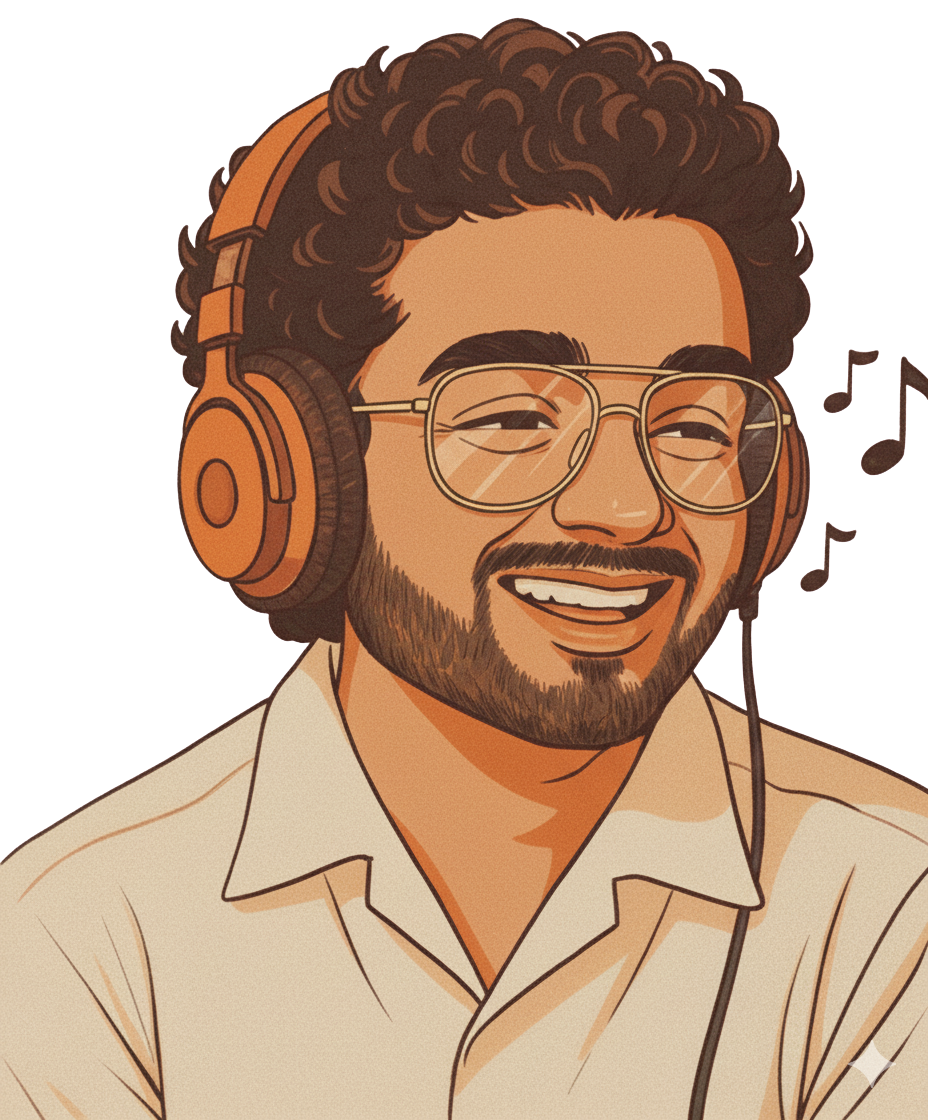
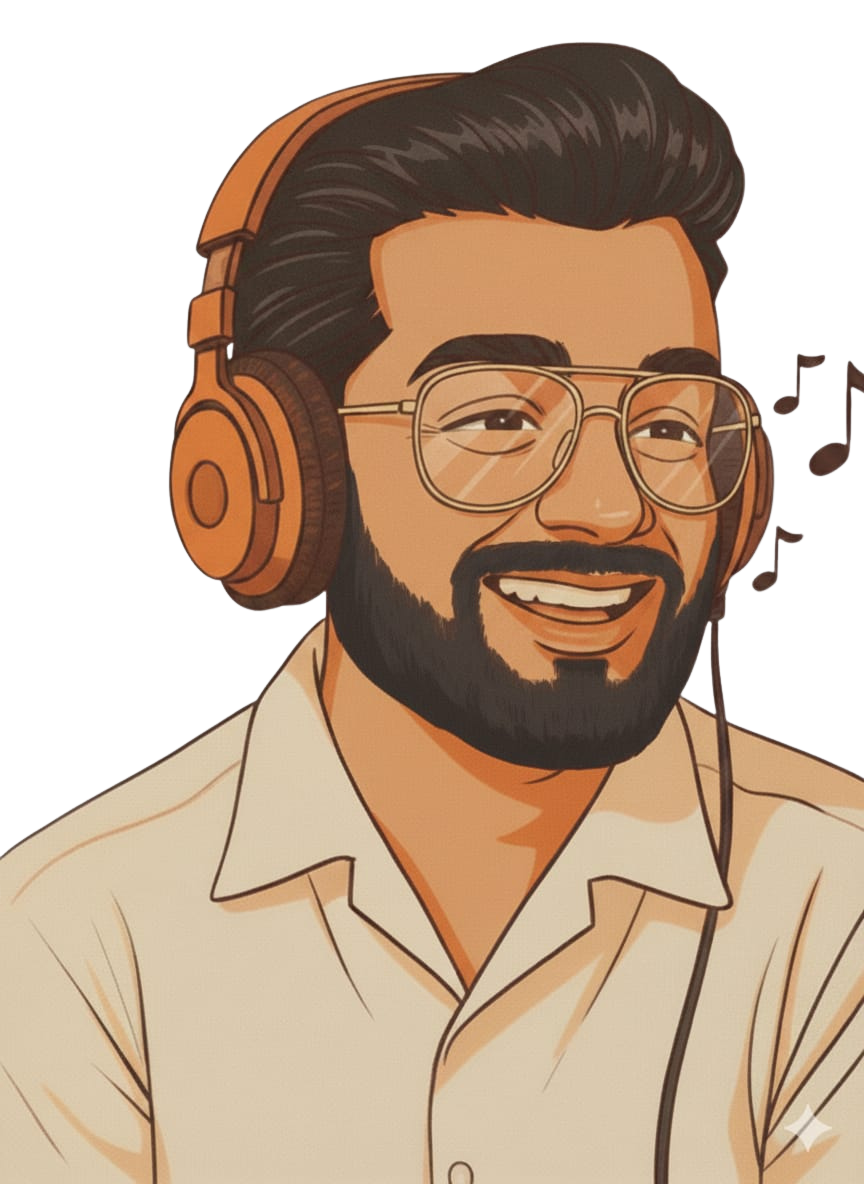
feat: music box issues fixed

diff --git a/components/music-box/MusicBox.tsx b/components/music-box/MusicBox.tsx
@@ -1,137 +1,25 @@
-// "use client";
-
-// import { useState, useRef } from "react";
-// import { motion } from "framer-motion";
-// import { Volume2, VolumeX, Radio, Music } from "lucide-react";
-
-// const radioStations = [
-//   "/audio/radio1.mp3",
-//   "/audio/radio2.mp3",
-//   "/audio/radio3.mp3",
-// ];
-
-// const personalTracks = [
-//   "/audio/mymusic1.mp3",
-//   "/audio/mymusic2.mp3",
-// ];
-
-// const clickSoundPath = "/assets/audio/click.mp3";
-
-// const MusicBox = () => {
-//   const [isMuted, setIsMuted] = useState(false);
-//   const [isPersonalMode, setIsPersonalMode] = useState(false);
-//   const [currentTrack, setCurrentTrack] = useState(0);
-
-//   const audioRef = useRef<HTMLAudioElement | null>(null);
-//   const clickRef = useRef<HTMLAudioElement | null>(null);
-
-//   const playClick = () => {
-//     if (clickRef.current) {
-//       clickRef.current.currentTime = 0;
-//       clickRef.current.play();
-//     }
-//   };
-
-//   const handleNextChannel = () => {
-//     playClick();
-//     const tracks = isPersonalMode ? personalTracks : radioStations;
-//     setCurrentTrack((prev) => (prev + 1) % tracks.length);
-//   };
-
-//   const handleMuteToggle = () => {
-//     playClick();
-//     setIsMuted((prev) => !prev);
-//   };
-
-//   const handleModeSwitch = () => {
-//     playClick();
-//     setIsPersonalMode((prev) => !prev);
-//     setCurrentTrack(0);
-//   };
-
-//   const tracks = isPersonalMode ? personalTracks : radioStations;
-
-//   return (
-//     <motion.div
-//       className="w-[220px] h-[160px] bg-[url('/assets/wood-texture.jpg')] bg-cover bg-center rounded-lg shadow-xl border border-border flex flex-col justify-between p-4 relative"
-//       initial={{ opacity: 0, y: -10 }}
-//       animate={{ opacity: 1, y: 0 }}
-//       transition={{ duration: 0.8 }}
-//     >
-//       {/* Decorative header */}
-//       <div className="flex justify-between items-center">
-//         <span className="text-xs uppercase text-foreground/60 tracking-widest">
-//           {isPersonalMode ? "My Tunes" : "Vintage Radio"}
-//         </span>
-//         <Radio className="w-4 h-4 text-primary/70" />
-//       </div>
-
-//       {/* Dial / Screen */}
-//       <div className="flex flex-col items-center justify-center mt-4 mb-2">
-//         <div className="w-[140px] h-[40px] bg-zinc-800/80 text-primary text-center flex items-center justify-center rounded-md shadow-inner border border-border font-mono text-sm">
-//           {isPersonalMode ? `Track ${currentTrack + 1}` : `Channel ${currentTrack + 1}`}
-//         </div>
-//       </div>
-
-//       {/* Controls */}
-//       <div className="flex justify-around items-center mt-auto">
-//         <button
-//           onClick={handleNextChannel}
-//           className="w-10 h-10 rounded-full bg-zinc-700 hover:bg-zinc-600 text-white shadow-md flex items-center cursor-pointer justify-center active:scale-95 transition"
-//         >
-//           ⏭
-//         </button>
-//         <button
-//           onClick={handleMuteToggle}
-//           className="w-10 h-10 rounded-full bg-zinc-700 hover:bg-zinc-600 text-white shadow-md flex items-center cursor-pointer justify-center active:scale-95 transition"
-//         >
-//           {isMuted ? <VolumeX size={18} /> : <Volume2 size={18} />}
-//         </button>
-//         <button
-//           onClick={handleModeSwitch}
-//           className="w-10 h-10 rounded-full bg-zinc-700 hover:bg-zinc-600 text-white shadow-md flex items-center cursor-pointer justify-center active:scale-95 transition"
-//         >
-//           {isPersonalMode ? <Radio size={18} /> : <Music size={18} />}
-//         </button>
-//       </div>
-
-//       {/* Hidden audio elements */}
-//       <audio
-//         ref={audioRef}
-//         src={tracks[currentTrack]}
-//         autoPlay
-//         loop
-//         muted={isMuted}
-//         onEnded={handleNextChannel}
-//       />
-//         <audio ref={clickRef} src={clickSoundPath} preload="auto" />
-//     </motion.div>
-//   );
-// };
-
-// export default MusicBox;
-
 "use client";
 
 import { useState, useRef } from "react";
 import { motion } from "framer-motion";
 import {
-  Volume2,
   SkipBack,
   SkipForward,
   Radio,
   Play,
   Pause,
 } from "lucide-react";
+import Image from "next/image";
 import HiddenYouTubeAudioHandler from "./HiddenYouTubeAudioHandler";
+import diskImg from "@/public/assets/images/disk.png";
 
 // 🎵 YouTube Tracks
 const youtubeRadioLinks = [
-  { url: "https://www.youtube.com/watch?v=kHGGf1qk6lI", start: 10, end: 60 },
-  { url: "https://www.youtube.com/watch?v=bF6bFy5oUno", start: 0, end: 90 },
-  { url: "https://www.youtube.com/watch?v=FRx6rQ606oE", start: 15, end: 75 },
-  { url: "https://www.youtube.com/watch?v=ibz-xC1YCgk", start: 20, end: 100 },
-  { url: "https://www.youtube.com/watch?v=nKhh3aqNRWA", start: 5, end: 120 },
+  { url: "https://www.youtube.com/watch?v=kHGGf1qk6lI", start: 10, end: 100 },
+  { url: "https://www.youtube.com/watch?v=bF6bFy5oUno", start: 10, end: 100 },
+  { url: "https://www.youtube.com/watch?v=FRx6rQ606oE", start: 10, end: 100 },
+  { url: "https://www.youtube.com/watch?v=ibz-xC1YCgk", start: 10, end: 100 },
+  { url: "https://www.youtube.com/watch?v=nKhh3aqNRWA", start: 10, end: 100 },
 ];
 
 // 🔊 Sound Effects
@@ -139,8 +27,8 @@ const clickSoundPath = "/assets/audio/click.mp3";
 const scrollSoundPath = "/assets/audio/slider.mp3";
 
 const MusicBox = () => {
-  const [isMuted, setIsMuted] = useState(true); // start muted (browser-safe autoplay)
-  const [isPlaying, setIsPlaying] = useState(true);
+  const [isMuted, setIsMuted] = useState(true);
+  const [isPlaying, setIsPlaying] = useState(false);
   const [currentTrack, setCurrentTrack] = useState(0);
   const [volume, setVolume] = useState(0.5);
 
@@ -155,7 +43,7 @@ const MusicBox = () => {
     }
   };
 
-  // 🔄 Scroll (volume change) sound
+  // 🎚 Scroll sound
   const playScroll = () => {
     if (scrollRef.current) {
       scrollRef.current.currentTime = 0;
@@ -163,14 +51,14 @@ const MusicBox = () => {
     }
   };
 
-  // ⏭ Next Track
+  // ⏭ Next track
   const handleNextChannel = () => {
     playClick();
-    setIsMuted(false); // unmute after first user interaction
+    setIsMuted(false);
     setCurrentTrack((prev) => (prev + 1) % youtubeRadioLinks.length);
   };
 
-  // ⏮ Previous Track
+  // ⏮ Previous track
   const handlePrevChannel = () => {
     playClick();
     setIsMuted(false);
@@ -179,14 +67,14 @@ const MusicBox = () => {
     );
   };
 
-  // ▶ / ⏸ Toggle Play/Pause
+  // ▶ / ⏸ Toggle play/pause
   const handlePlayPause = () => {
     playClick();
     setIsMuted(false);
     setIsPlaying((prev) => !prev);
   };
 
-  // 🔊 Volume change
+  // 🔊 Volume control
   const handleVolumeChange = (e: React.ChangeEvent<HTMLInputElement>) => {
     const newVolume = parseFloat(e.target.value);
     setVolume(newVolume);
@@ -196,55 +84,97 @@ const MusicBox = () => {
 
   return (
     <motion.div
-      className="w-[220px] h-[160px] bg-[url('/assets/wood-texture.jpg')] bg-cover bg-center rounded-lg shadow-xl border border-border flex flex-col justify-between p-4 relative"
-      initial={{ opacity: 0, y: -10 }}
-      animate={{ opacity: 1, y: 0 }}
-      transition={{ duration: 0.8 }}
+      className="relative w-[220px] h-[160px] bg-[url('/assets/wood-texture.jpg')] bg-cover bg-center rounded-2xl shadow-xl border border-border flex flex-col justify-between p-4 backdrop-blur-sm overflow-hidden"
+      initial={{ opacity: 1, y: 0 }}
+      animate={{
+        opacity: 1,
+        y: [0, -2, 0, 2, 0],
+        rotate: [0, 0.6, -0.6, 0],
+      }}
+      transition={{
+        duration: 8,
+        ease: "easeInOut",
+        repeat: Infinity,
+      }}
     >
+      {/* ✨ Soft Glow Overlay */}
+      <div className="absolute inset-0 rounded-2xl bg-linear-to-br from-primary/10 via-transparent to-transparent blur-2xl pointer-events-none" />
+
+      {/* 💿 Spinning Disk */}
+      <motion.div
+        animate={
+          isPlaying
+            ? { rotate: [0, 360] }
+            : { rotate: undefined }
+        }
+        transition={
+          isPlaying
+            ? {
+              repeat: Infinity,
+              ease: "linear",
+              duration: 4,
+            }
+            : { duration: 0 }
+        }
+        className="absolute -top-4 -right-6 w-20 h-20 sm:w-24 sm:h-24 opacity-90 z-20"
+      >
+        <Image
+          src={diskImg}
+          alt="Spinning Disk"
+          width={100}
+          height={100}
+          className="object-contain drop-shadow-md rounded-full"
+        />
+      </motion.div>
+
+
       {/* Header */}
-      <div className="flex justify-between items-center">
-        <span className="text-xs uppercase text-foreground/60 tracking-widest">
-          YouTube Jukebox
+      <div className="flex justify-between items-center relative z-10">
+        <span className="text-[10px] uppercase text-foreground/60 tracking-widest font-semibold drop-shadow">
+          My Jukebox
         </span>
-        <Radio className="w-4 h-4 text-primary/70" />
+        <Radio className="w-4 h-4 text-primary/70 drop-shadow" />
       </div>
 
-      {/* Display / Track Info */}
-      <div className="flex flex-col items-center justify-center mt-4 mb-2">
-        <div className="w-[140px] h-[40px] bg-zinc-800/80 text-primary text-center flex items-center justify-center rounded-md shadow-inner border border-border font-mono text-sm">
-          Track {currentTrack + 1}
+      {/* Track Display */}
+      <div className="flex flex-col items-center justify-center mt-4 mb-2 relative z-10">
+        <div
+          className="w-[140px] h-[40px] bg-stone-800/80 text-primary text-center flex items-center justify-center rounded-md shadow-inner border border-border font-mono text-sm"
+        >
+          <p className="text-white">
+            Track {currentTrack + 1}
+          </p>
         </div>
       </div>
 
       {/* Controls */}
-      <div className="flex justify-around items-center mt-auto">
-        {/* Backward */}
+      <div className="flex justify-around items-center mt-auto relative z-10">
         <button
           onClick={handlePrevChannel}
-          className="w-8 h-8 rounded-full bg-zinc-700 hover:bg-zinc-600 text-white shadow-md flex items-center justify-center cursor-pointer active:scale-95 transition"
+          className="w-8 h-8 rounded-full bg-zinc-700 hover:bg-zinc-600 text-white cursor-pointer shadow-md flex items-center justify-center active:scale-90 transition-transform duration-150"
         >
           <SkipBack size={16} />
         </button>
 
-        {/* Play / Pause */}
-        <button
+        <motion.button
           onClick={handlePlayPause}
-          className="w-8 h-8 rounded-full bg-primary hover:bg-primary/80 text-white shadow-md flex items-center justify-center cursor-pointer active:scale-95 transition"
+          whileTap={{ scale: 0.9 }}
+          whileHover={{ scale: 1.05 }}
+          className="w-8 h-8 rounded-full bg-primary hover:bg-primary/80 text-white cursor-pointer shadow-lg flex items-center justify-center transition-all"
         >
           {isPlaying ? <Pause size={16} /> : <Play size={16} />}
-        </button>
+        </motion.button>
 
-        {/* Forward */}
         <button
           onClick={handleNextChannel}
-          className="w-8 h-8 rounded-full bg-zinc-700 hover:bg-zinc-600 text-white shadow-md flex items-center justify-center cursor-pointer active:scale-95 transition"
+          className="w-8 h-8 rounded-full bg-zinc-700 hover:bg-zinc-600 text-white cursor-pointer shadow-md flex items-center justify-center active:scale-90 transition-transform duration-150"
         >
           <SkipForward size={16} />
         </button>
       </div>
 
       {/* Volume Slider */}
-      <div className="mt-2 flex flex-col items-center">
+      <div className="mt-2 flex flex-col items-center relative z-10">
         <input
           type="range"
           min="0"
@@ -256,7 +186,7 @@ const MusicBox = () => {
         />
       </div>
 
-      {/* Hidden YouTube Handler */}
+      {/* Hidden YouTube Audio Handler */}
       <HiddenYouTubeAudioHandler
         youtubeRadioLinks={youtubeRadioLinks}
         currentTrack={currentTrack}
@@ -266,7 +196,7 @@ const MusicBox = () => {
         onNextTrack={handleNextChannel}
       />
 
-      {/* Hidden Sound Effects */}
+      {/* Sound Effects */}
       <audio ref={clickRef} src={clickSoundPath} preload="auto" />
       <audio ref={scrollRef} src={scrollSoundPath} preload="auto" />
     </motion.div>
@@ -274,6 +204,7 @@ const MusicBox = () => {
 };
 
 export default MusicBox;
+
 
 
 

diff --git a/app/layout.tsx b/app/layout.tsx
@@ -1,13 +1,16 @@
 import type { Metadata } from "next";
 import { EB_Garamond } from "next/font/google";
 import "./globals.css";
+import { motion } from "framer-motion";
+import MusicBox from "@/components/music-box/MusicBox";
 import ChellomAssistant from "@/components/chellom-ai/ChellomAssistant";
 
 const garamond = EB_Garamond({ subsets: ["latin"] });
 
 export const metadata: Metadata = {
   title: "Adharsh D | Portfolio",
-  description: "Software Developer based on Kerala who thirives to build ideas to feelable things using tech stuffs",
+  description:
+    "Software Developer based in Kerala who thrives to build ideas into tangible experiences using technology.",
 };
 
 export default function RootLayout({
@@ -17,8 +20,12 @@ export default function RootLayout({
 }>) {
   return (
     <html lang="en" className={garamond.className}>
-      <body className="bg-[#FAF3E0] text-[#2E2B29]">
+      <body className="relative bg-[#FAF3E0] text-[#2E2B29] min-h-screen overflow-x-hidden">
+        <div className="absolute top-6 right-6 md:top-10 md:right-16 z-20 scale-75 sm:scale-90 md:scale-100">
+          <MusicBox />
+        </div>
         {children}
+        
         <ChellomAssistant />
       </body>
     </html>

diff --git a/app/home/page.tsx b/app/home/page.tsx
@@ -8,15 +8,6 @@ import MusicBox from "@/components/music-box/MusicBox";
 export default function Home() {
   return (
     <main className="relative min-h-screen flex flex-col justify-center items-center text-foreground overflow-hidden">
-      {/* 🎵 Floating MusicBox */}
-      <motion.div
-        animate={{ rotate: [0, 2, -2, 0] }}
-        transition={{ duration: 6, repeat: Infinity }}
-        className="absolute top-6 right-6 md:top-10 md:right-16 z-20 scale-75 sm:scale-90 md:scale-100"
-      >
-        <MusicBox />
-      </motion.div>
-
       {/* 🖼 HERO SECTION */}
       <section className="flex flex-col md:flex-row items-center justify-center w-full px-4 sm:px-8 md:px-16 py-12 md:py-20 lg:py-28 gap-10 md:gap-16 max-w-7xl mx-auto">
         {/* LEFT SIDE - Hero Image */}
